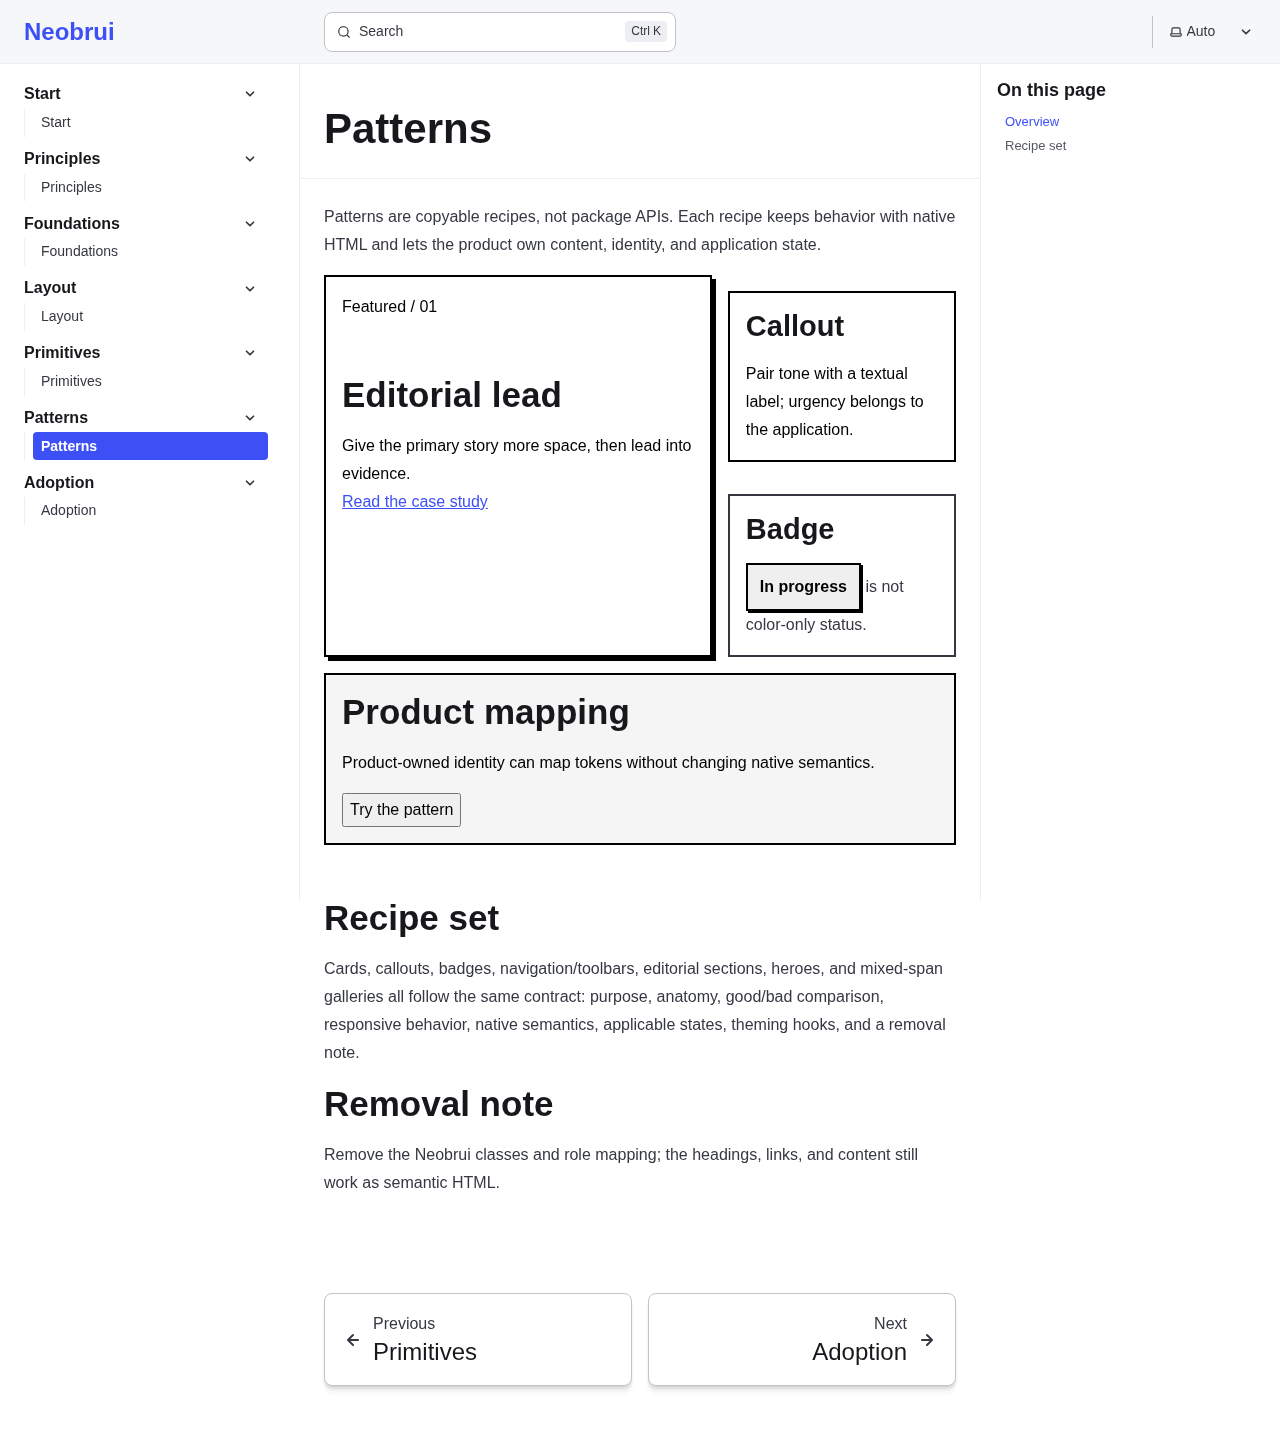
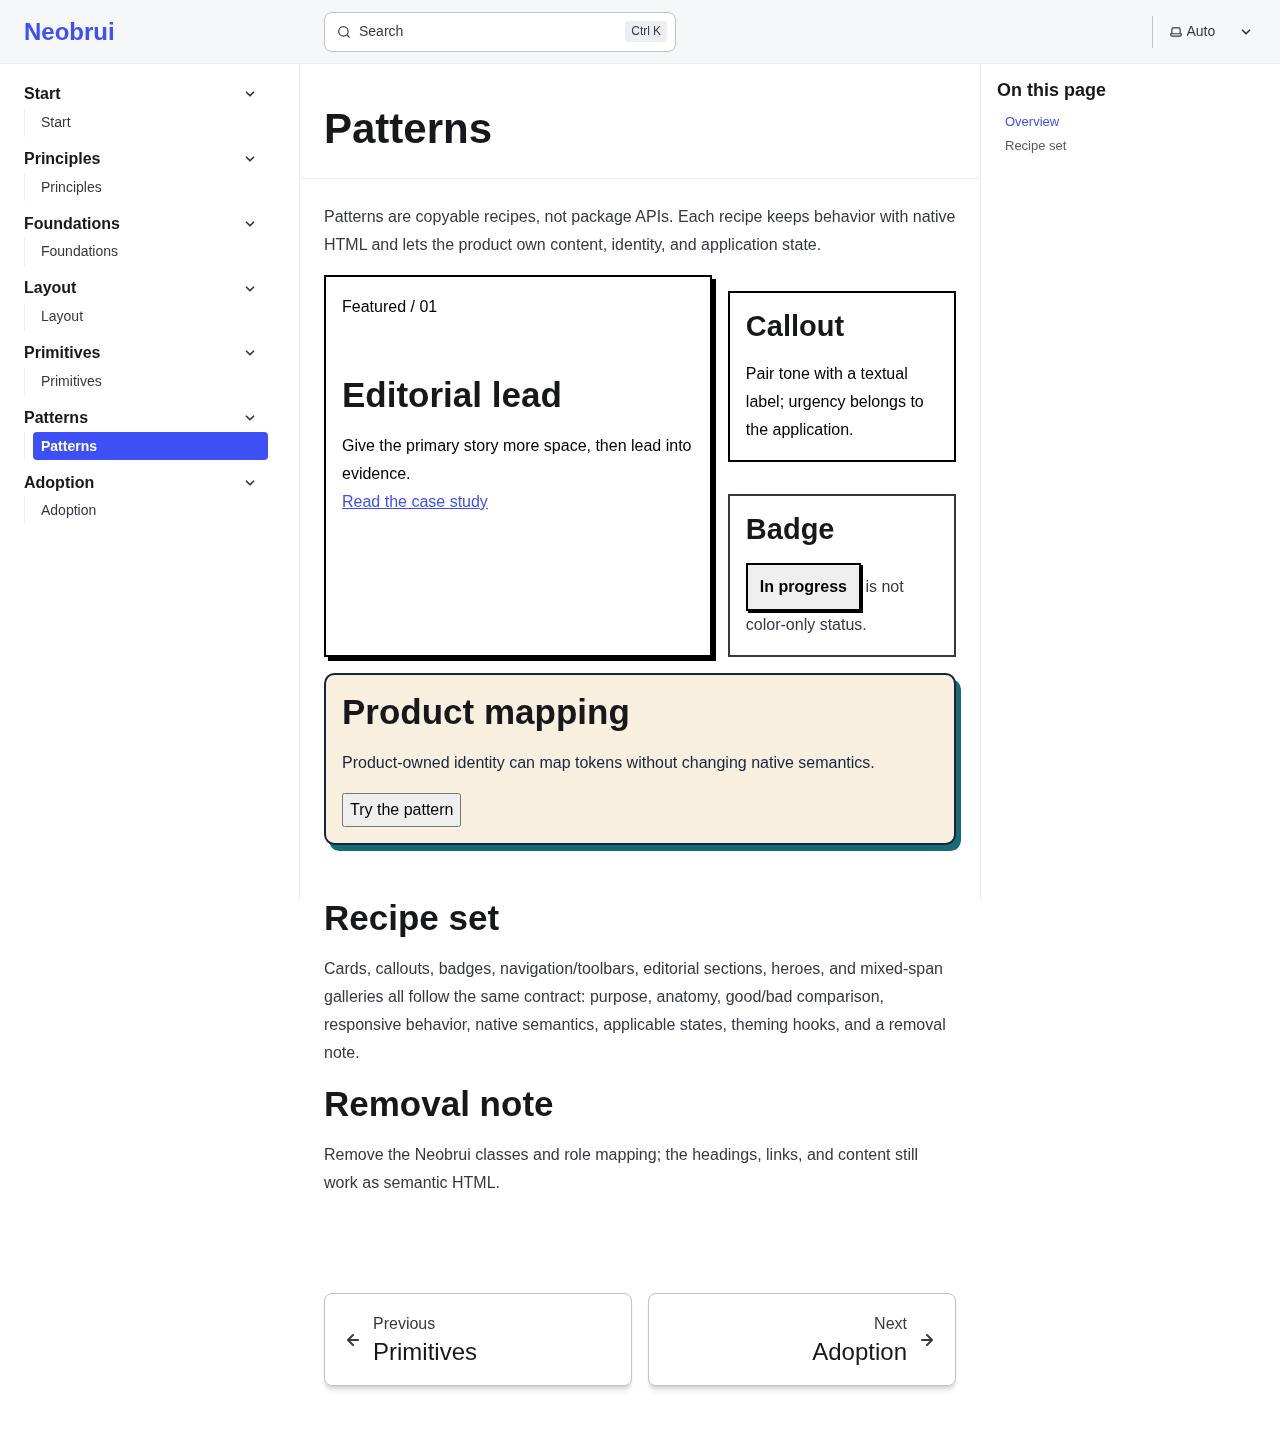
fix(docs): capture distinct product identity evidence

Changed region(s): [[0.25, 0.4593, 0.75, 0.6124]]

diff --git a/apps/docs/tests/capture.spec.js b/apps/docs/tests/capture.spec.js
@@ -3,8 +3,33 @@ import { mkdirSync, readFileSync, writeFileSync } from 'node:fs';
 import { join } from 'node:path';
 import { createHash } from 'node:crypto';
 
+test.describe.configure({ mode: 'serial' });
+
 const out = join(process.cwd(), 'evidence/screenshots');
+const manifestPath = join(out, 'manifest.json');
+const neutralHashes = {
[4 lines of base64/hex data omitted]
+};
 const cases = [['neutral', 'light'], ['neutral', 'dark'], ['product', 'light'], ['product', 'dark']];
+const tokenNames = ['--nbr-color-text', '--nbr-color-canvas', '--nbr-color-border', '--nbr-color-shadow', '--nbr-radius-control'];
+
+function snapshot(locator) {
+  return locator.evaluate((element, names) => {
+    const style = getComputedStyle(element);
+    return {
+      ...Object.fromEntries(names.map(name => [name, style.getPropertyValue(name).trim()])),
+      color: style.color,
+      backgroundColor: style.backgroundColor,
+      borderTopColor: style.borderTopColor,
+      boxShadow: style.boxShadow,
+      borderRadius: style.borderRadius,
+    };
+  }, tokenNames);
+}
+
 for (const [identity, theme] of cases) for (const [label, width] of [['desktop', 1280], ['mobile', 320]]) {
   test(`${identity} ${label} ${theme} capture`, async ({ page }) => {
     await page.setViewportSize({ width, height: 900 });
@@ -14,15 +39,69 @@ for (const [identity, theme] of cases) for (const [label, width] of [['desktop',
     const response = await page.goto('/patterns/');
     expect(response?.status()).toBe(200);
     await expect(page.getByRole('heading', { name: 'Patterns', level: 1 })).toBeVisible();
-    await expect(page.locator(`[data-specimen="${identity}"]`)).toBeVisible();
+    const specimen = page.locator('[data-specimen="product"]');
+    if (identity === 'neutral') await specimen.evaluate(element => element.removeAttribute('data-nbr-example-theme'));
+    await expect(specimen).toBeVisible();
+    if (identity === 'product') {
+      await expect(specimen).toHaveAttribute('aria-label', 'Product identity: Coral Ledger');
+    }
+    expect(await page.evaluate(expectedWidth => innerWidth === expectedWidth, width)).toBe(true);
+    expect(await page.evaluate(expectedTheme => matchMedia(`(prefers-color-scheme: ${expectedTheme})`).matches, theme)).toBe(true);
+    if (identity === 'product') await specimen.evaluate(element => element.removeAttribute('data-nbr-example-theme'));
+    const neutral = await snapshot(specimen);
+    if (identity === 'product') await specimen.evaluate(element => element.setAttribute('data-nbr-example-theme', 'product'));
+    if (identity === 'product') {
+      await expect(specimen).toHaveAttribute('data-nbr-example-theme', 'product');
+      const product = await snapshot(specimen);
+      for (const name of tokenNames) expect(product[name], name).not.toBe(neutral[name]);
+      expect(await specimen.evaluate(element => {
+        const style = getComputedStyle(element);
+        const luminance = value => {
+          const channels = value.match(/rgba?\(([^)]+)\)/)?.[1].split(',').map(Number);
+          if (!channels) return null;
+          return channels.slice(0, 3).map(channel => channel / 255).map(channel => channel <= .03928 ? channel / 12.92 : ((channel + .055) / 1.055) ** 2.4).reduce((sum, channel, index) => sum + channel * [0.2126, 0.7152, 0.0722][index], 0);
+        };
+        const foreground = luminance(style.color);
+        const background = luminance(style.backgroundColor);
+        return foreground !== null && background !== null && (Math.max(foreground, background) + .05) / (Math.min(foreground, background) + .05) >= 4.5;
+      })).toBe(true);
+      expect(product['--nbr-color-text']).not.toBe('');
+    } else {
+      expect(await specimen.getAttribute('data-nbr-example-theme')).toBeNull();
+      expect(await snapshot(specimen)).toEqual(neutral);
+    }
     expect(bad).toEqual([]);
     mkdirSync(out, { recursive: true });
     const file = join(out, `${identity}-${label}-${theme}.png`);
     await page.screenshot({ path: file, fullPage: true });
-    const manifest = join(out, 'manifest.json');
-    let list = [];
-    try { list = JSON.parse(readFileSync(manifest, 'utf8')); } catch { /* first capture */ }
-    list.push({ identity, theme, viewport: { width, height: 900 }, route: '/patterns/', h1: 'Patterns', file: `screenshots/${identity}-${label}-${theme}.png`, sha256: createHash('sha256').update(readFileSync(file)).digest('hex'), dimensions: { width, height: await page.evaluate(() => document.documentElement.scrollHeight) } });
-    writeFileSync(manifest, JSON.stringify(list, null, 2) + '\n');
+    const sha256 = createHash('sha256').update(readFileSync(file)).digest('hex');
+    const pair = `${label}-${theme}`;
+    if (identity === 'neutral') expect(sha256).toBe(neutralHashes[pair]);
+    else expect(sha256).not.toBe(neutralHashes[pair]);
+    const list = JSON.parse(readFileSync(manifestPath, 'utf8'));
+    const record = { identity, theme, viewport: { width, height: 900 }, route: '/patterns/', h1: 'Patterns', file: `screenshots/${identity}-${label}-${theme}.png`, sha256, dimensions: { width: 0, height: await page.evaluate(() => document.documentElement.scrollHeight) } };
+    record.dimensions.width = width;
+    if (identity === 'product') {
+      record.marker = 'Product identity: Coral Ledger';
+      record.tokens = await snapshot(specimen);
+    }
+    const index = list.findIndex(item => item.identity === identity && item.theme === theme && item.viewport.width === width);
+    if (index === -1) list.push(record); else list[index] = record;
+    writeFileSync(manifestPath, JSON.stringify(list, null, 2) + '\n');
   });
 }
+
+test('product evidence contract rejects duplicate paired hashes and differs in both themes', async () => {
+  const manifest = JSON.parse(readFileSync(manifestPath, 'utf8'));
+  for (const theme of ['light', 'dark']) {
+    const neutral = manifest.find(item => item.identity === 'neutral' && item.theme === theme && item.viewport.width === 1280);
+    const product = manifest.find(item => item.identity === 'product' && item.theme === theme && item.viewport.width === 1280);
+    expect(product.sha256).not.toBe(neutral.sha256);
+    expect(product.tokens).toBeTruthy();
+    expect(product.marker).toBe('Product identity: Coral Ledger');
+  }
+  const light = manifest.find(item => item.identity === 'product' && item.theme === 'light' && item.viewport.width === 1280);
+  const dark = manifest.find(item => item.identity === 'product' && item.theme === 'dark' && item.viewport.width === 1280);
+  expect(light.tokens).not.toEqual(dark.tokens);
+  expect(new Set(manifest.map(item => item.sha256)).size).toBe(manifest.length);
+});

diff --git a/apps/docs/src/styles/docs.css b/apps/docs/src/styles/docs.css
@@ -16,5 +16,31 @@
   .nbr-good { border-inline-start: 4px solid var(--nbr-color-positive, currentColor); }
   .nbr-bad { opacity: .72; }
   [data-specimen="product"] { --nbr-color-positive: #9a3412; background: color-mix(in srgb, currentColor 4%, transparent); }
+
+  /* Product identity is an opt-in example mapping, never a core default. */
+  [data-nbr-example-theme="product"] {
+    --nbr-border-control: 3px solid var(--nbr-color-border);
+    --nbr-border-region: 4px solid var(--nbr-color-border);
+    --nbr-button-background: var(--nbr-color-action);
+    --nbr-color-action: light-dark(#b83f32, #f27c68);
+    --nbr-color-border: light-dark(#14263d, #f2dfc1);
+    --nbr-color-canvas: light-dark(#f8efdf, #182333);
+    --nbr-color-focus: light-dark(#176b72, #71d0c6);
+    --nbr-color-on-action: light-dark(#fffaf0, #182333);
+    --nbr-color-shadow: light-dark(#176b72, #71d0c6);
+    --nbr-color-surface: light-dark(#fffaf0, #22334a);
+    --nbr-color-surface-raised: light-dark(#fff4df, #2c4058);
+    --nbr-color-text: light-dark(#14263d, #fff4df);
+    --nbr-color-text-muted: light-dark(#40566e, #c8d1d9);
+    --nbr-radius-control: 0.65rem;
+    --nbr-shadow-block: 6px;
+    --nbr-shadow-inline: 5px;
+    --nbr-shadow-press-block: 2px;
+    --nbr-shadow-press-inline: 2px;
+    background: var(--nbr-color-canvas);
+    color: var(--nbr-color-text);
+    border-radius: var(--nbr-radius-control);
+    box-shadow: var(--nbr-shadow-inline) var(--nbr-shadow-block) 0 var(--nbr-color-shadow);
+  }
   @media (max-width: 40rem) { .nbr-gallery { grid-template-columns: 1fr; } .nbr-gallery > :first-child { grid-row: auto; } }
 }

diff --git a/apps/docs/evidence/rubric.md b/apps/docs/evidence/rubric.md
@@ -5,10 +5,14 @@ This rubric records the clean scaffold's current review score; screenshot captur
 | Identity | Score | Accessibility | Responsive | Interaction |
 | --- | ---: | ---: | ---: | ---: |
 | Neutral | 17/18 | Pass: keyboard focus and axe on representative main content | Pass: 320px no overflow | Pass: native links/buttons and Search focus return |
-| Product mapping | 17/18 | Pass: same semantics under scoped role mapping | Pass: logical layout collapse documented | Pass: same controls and removable classes |
+| Product mapping (Coral Ledger) | 17/18 | Pass: same native semantics under an explicit scoped role mapping; light foreground/background contrast verified at >=4.5:1 | Pass: same 1280px/320px route and dimensions; mobile specimens reflow without clipping | Pass: same native button/link anatomy and removable scope |
 
 Dimensions scored: hierarchy, intentional irregularity, restraint, semantic roles, responsive layout, native interaction, accessibility, product identity, and removability. Observations and machine-readable scores are in `rubric.json`.
 
 ## Current capture observations
 
-The eight Chromium captures in `screenshots/` show the same authored Patterns specimen at 1280px and exact 320px widths in both color schemes. Desktop preserves the two-column gallery and large editorial lead; mobile collapses each specimen to one column without horizontal clipping. Light and dark captures retain visible borders, readable text, focus-capable native links/buttons, and distinct product mapping content. The capture contract asserted HTTP 200, the Patterns H1, identity markers, no error responses, and the requested viewport/theme before writing each PNG; each manifest hash was generated from its corresponding file.
+The four neutral captures remain byte-for-byte unchanged at the manifest hashes `40c060…`, `263375…`, `b6f511…`, and `6b923a…`. The four regenerated Coral Ledger product captures use the same `/patterns/` route, 1280px/320px viewports, and light/dark schemes, but differ from every paired neutral hash (`1a21b69…`, `ef4cd81…`, `133d98f…`, `dfa145c…`).
+
+Product identity is opt-in on the product specimen root via `data-nbr-example-theme="product"` and the accessible `aria-label="Product identity: Coral Ledger"`. Its ink-navy/warm-cream mapping, coral action, teal shadow/focus, 3–4px borders, 0.65rem controls, and 5–6px shadows are explicit light/dark values; neutral capture removes the opt-in scope before rendering. Manifest records contain the computed role snapshot and marker for each product image, and the contract rejects duplicate hashes while requiring light/dark token snapshots to differ.
+
+Visual inspection found a clear cream/navy product panel in light mode and navy product panel with warm light text in dark mode. Desktop preserves the gallery and product panel without overflow; mobile stacks all specimens and keeps text/buttons readable. Borders and shadows remain restrained, no 404/error responses were observed, and no clipping was visible.
